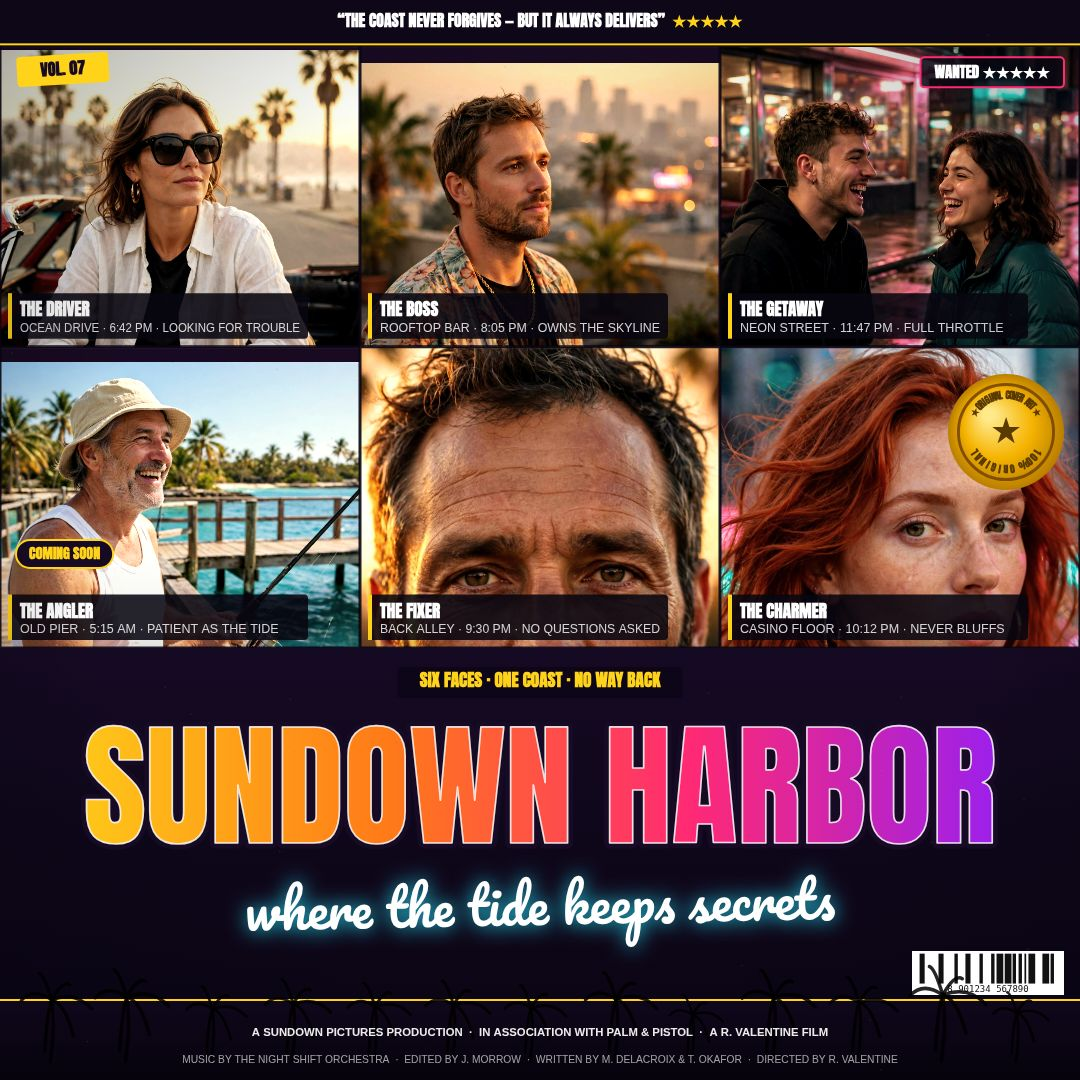
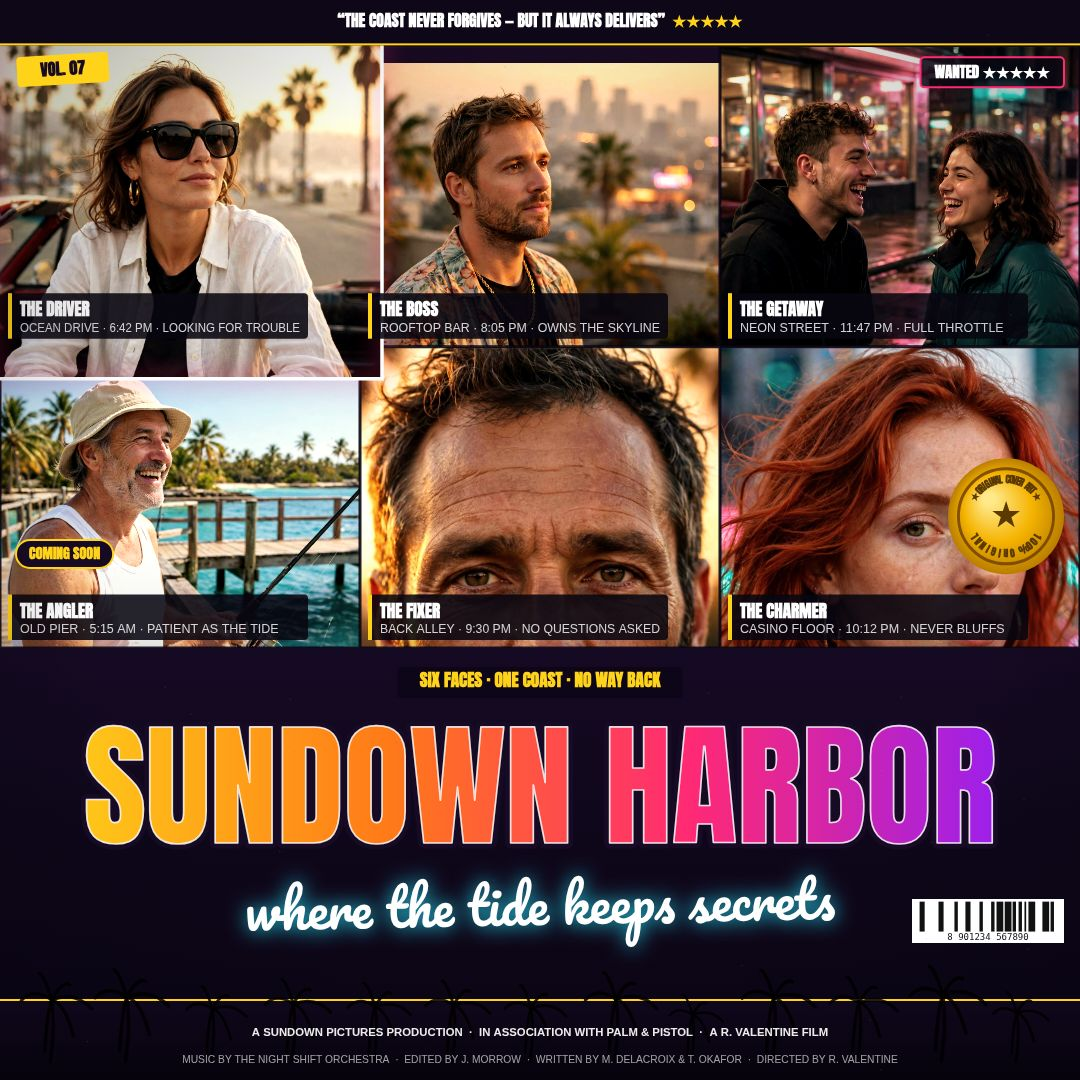
gta6-cover-art-01 v1 fix2: editor preview render, seal clear of label, barcode clear, pop-out hero

Changed region(s): [[0.0, 0.0306, 0.3667, 0.3667], [0.8556, 0.3361, 1.0, 0.55], [0.825, 0.825, 1.0, 0.9472]]

diff --git a/app/src/cover.js b/app/src/cover.js
@@ -38,11 +38,11 @@ export const GRADES = [
 export const LAYOUTS = [
   { id: 'hero-mosaic', name: 'Hero mosaic', panels: 7, hero: 0 },
   { id: 'hero-three', name: 'Hero + three', panels: 4, hero: 0 },
-  { id: 'six-grid', name: 'Six grid', panels: 6, hero: -1 },
+  { id: 'six-grid', name: 'Six grid', panels: 6, hero: 0 },
   { id: 'diagonal-trio', name: 'Diagonal trio', panels: 3, hero: 0 },
   { id: 'seven-mosaic', name: 'Seven mosaic', panels: 7, hero: 0 },
   { id: 'comic-slash', name: 'Comic slash', panels: 5, hero: 2 },
-  { id: 'nine-panel', name: 'Nine-panel', panels: 9, hero: -1 },
+  { id: 'nine-panel', name: 'Nine-panel', panels: 9, hero: 4 },
 ];
 
 export function defaultState() {
@@ -142,8 +142,8 @@ export function layoutPanels(layoutId, W, H) {
   }
 }
 
-// Clip path for one panel rect (supports slanted comic edges).
-function clipPanel(ctx, px, py, pw, ph, slant) {
+// Path for one panel rect (supports slanted comic edges).
+function panelPath(ctx, px, py, pw, ph, slant) {
   ctx.beginPath();
   if (slant) {
     const s = slant * pw;
@@ -155,6 +155,11 @@ function clipPanel(ctx, px, py, pw, ph, slant) {
     ctx.rect(px, py, pw, ph);
   }
   ctx.closePath();
+}
+
+// Clip path for one panel rect (supports slanted comic edges).
+function clipPanel(ctx, px, py, pw, ph, slant) {
+  panelPath(ctx, px, py, pw, ph, slant);
   ctx.clip();
 }
 
@@ -500,12 +505,16 @@ function drawFurniture(ctx, W, H, state, seed) {
   ctx.fillText(cs, 16 * s + cw / 2, csY + 15 * s);
   ctx.restore();
 
-  // Gold seal, right edge over the panels.
-  drawGoldSeal(ctx, W - 74 * s, H * 0.40, 58 * s);
+  // Gold seal, right edge over the panels. It sits at 0.478H — the gap
+  // between the panel rows' label strips (a seal at 0.40H covered the
+  // CHARMER label's second line in the nine-panel layout).
+  drawGoldSeal(ctx, W - 74 * s, H * 0.478, 58 * s);
 
-  // Barcode, bottom right just above the palm band — clear of the
-  // subtitle script above it (subtitle bottom ≈ 0.869H, barcode top 0.881H).
-  drawBarcode(ctx, W - 168 * s, H * 0.925 - 48 * s, 152 * s, 44 * s, seed);
+  // Barcode, bottom right, lifted well clear of the palm band: palm
+  // fronds reach ~0.034H above the band and used to cross the barcode's
+  // number, and the box nearly touched the gold divider. Its white box
+  // now ends ~0.05H above the band, above every frond tip.
+  drawBarcode(ctx, W - 168 * s, H * 0.925 - 100 * s, 152 * s, 44 * s, seed);
 
   // Palm band + two-line production footer.
   const bandY = H * 0.925;
@@ -601,11 +610,15 @@ export function renderCover(canvas, state, images) {
     const panel = state.panels[i % state.panels.length];
     const px = r.x * W, py = r.y * H, pw = r.w * W, ph = r.h * H;
     const isHero = i === heroIdx && state.popout;
-    // Pop-out hero (T2): the hero photo breaks out of its frame, white edge.
+    // Pop-out hero (T2): the hero photo genuinely breaks out of its
+    // frame — well past the right and bottom edges, over the neighbours
+    // — with a white edge + pink glow. (The old 6px nudge was invisible:
+    // the lift went under the quote strip, drawn later, and the clipped
+    // stroke + glow never spilled outside the panel.)
     let ex = px, ey = py, ew = pw, eh = ph;
     if (isHero) {
       const lift = H * 0.028;
-      ex = px - 6 * s; ey = py - lift; ew = pw + 12 * s; eh = ph + lift;
+      ex = px - 6 * s; ey = py - lift; ew = pw + 28 * s; eh = ph + lift + 32 * s;
     }
     ctx.save();
     clipPanel(ctx, ex, ey, ew, eh, r.slant);
@@ -624,18 +637,28 @@ export function renderCover(canvas, state, images) {
     ctx.save();
     if (isHero) {
       ctx.shadowColor = '#ff2975';
-      ctx.shadowBlur = (fx.glow / 100) * 22 + 4;
+      ctx.shadowBlur = (fx.glow / 100) * 26 + 8;
       ctx.strokeStyle = '#ffffff';
-      ctx.lineWidth = Math.max(2, 3 * s);
+      ctx.lineWidth = Math.max(2.5, 3.5 * s);
+      // Stroke WITHOUT the clip: the white edge and the pink glow must
+      // spill outside the expanded frame, or the pop-out reads as flat.
+      panelPath(ctx, ex, ey, ew, eh, r.slant);
+      ctx.stroke();
     } else {
       ctx.strokeStyle = 'rgba(10,5,18,0.9)';
       ctx.lineWidth = Math.max(2, 3 * s);
+      clipPanel(ctx, ex, ey, ew, eh, r.slant);
+      ctx.stroke();
     }
-    clipPanel(ctx, ex, ey, ew, eh, r.slant);
-    ctx.stroke();
     ctx.restore();
-    // Two-line label, inside the panel's own (non-expanded) bottom.
-    drawPanelLabel(ctx, px, py, pw, ph, panel, s);
+  }
+  // Two-line labels in a second pass, inside each panel's own
+  // (non-expanded) bottom — so the hero's expanded photo can never
+  // paint over a neighbour's label.
+  for (const i of order) {
+    const r = rects[i];
+    const panel = state.panels[i % state.panels.length];
+    drawPanelLabel(ctx, r.x * W, r.y * H, r.w * W, r.h * H, panel, s);
   }
 
   drawVignette(ctx, W, H);

diff --git a/app/src/shots.js b/app/src/shots.js
@@ -12,7 +12,7 @@
 // browser knows when to capture.
 
 import { defaultState, loadImages, renderCover, sizeById } from './cover.js';
-import { initEditor } from './main.js';
+import { initEditor, renderPreview } from './main.js';
 
 const params = new URLSearchParams(location.search);
 const shot = params.get('shot') || '';
@@ -53,13 +53,49 @@ async function shotEditor() {
   // Flip / Swap / Face, name tag — with the Effects sliders below them.
   const items = document.querySelectorAll('.panel-item');
   if (items[1]) items[1].click();
+  // Scroll the RIGHT column inside its own box, never the document:
+  // scrollIntoView on the document used to push the preview canvas
+  // above the fold, leaving the left column blank dark purple.
+  const aside = document.querySelector('.controls');
+  if (aside) {
+    aside.style.maxHeight = `${Math.max(320, window.innerHeight - aside.getBoundingClientRect().top - 24)}px`;
+    aside.style.overflowY = 'auto';
+  }
   const controls = document.querySelector('.panel-controls');
   if (controls) controls.scrollIntoView({ block: 'start' });
+  window.scrollTo(0, 0);
+  // Readiness guard: only signal ready once the preview canvas actually
+  // holds a drawn, non-uniform frame (sample photos loaded + rendered).
+  // A blank canvas re-renders once before we report ready.
+  await new Promise((r) => requestAnimationFrame(() => requestAnimationFrame(r)));
+  if (!previewDrawn()) {
+    renderPreview();
+    await new Promise((r) => requestAnimationFrame(() => requestAnimationFrame(r)));
+  }
   // Show the export confirmation toast, pinned (no auto-hide in the shot).
   const toastEl = document.getElementById('toast');
   toastEl.textContent = 'Saved sundown-harbor-1920x1080.png — 1920 × 1080 PNG.';
   toastEl.classList.add('show');
   window.__shotReady = true;
+}
+
+// True when the preview canvas holds a drawn frame: many distinct
+// colours across a pixel sample. A blank / cleared canvas has one.
+// A probe failure must not block readiness, so it reports drawn.
+function previewDrawn() {
+  try {
+    const c = document.getElementById('preview');
+    if (!c || !c.width || !c.height) return false;
+    const d = c.getContext('2d').getImageData(0, 0, c.width, c.height).data;
+    const seen = new Set();
+    for (let i = 0; i < d.length; i += 400) {
+      seen.add(d[i] + ',' + d[i + 1] + ',' + d[i + 2]);
+      if (seen.size > 64) return true;
+    }
+    return false;
+  } catch {
+    return true;
+  }
 }
 
 async function boot() {

diff --git a/app/src/main.js b/app/src/main.js
@@ -52,7 +52,7 @@ function updateUndoButtons() {
   $('btn-redo').disabled = future.length === 0;
 }
 
-async function renderPreview() {
+export async function renderPreview() {
   if (!previewCanvas) return;
   const size = sizeById(state.size);
   const box = $('preview-box');
